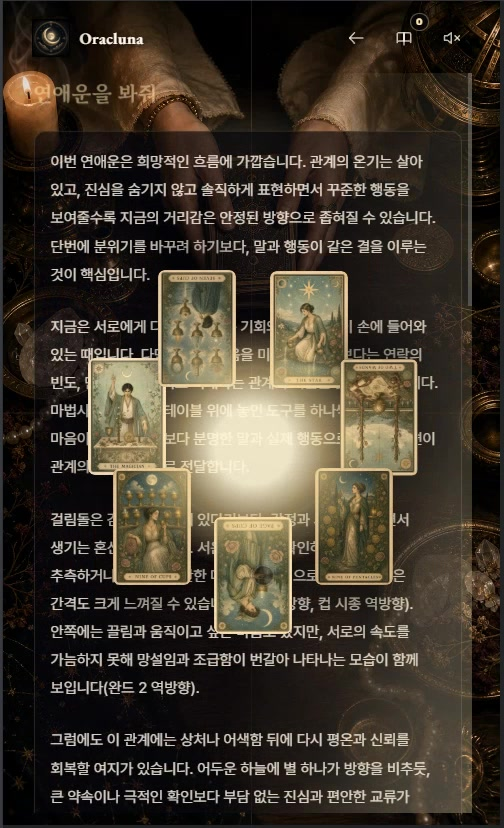
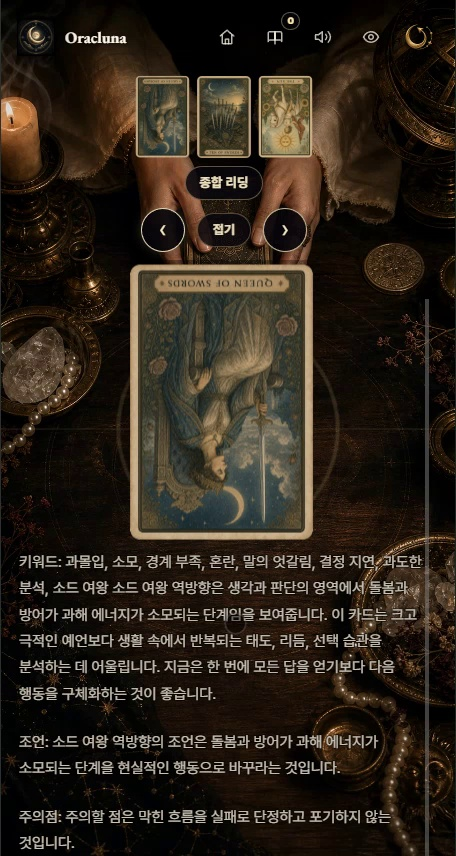
feat(oracluna): 최신 녹화 화면으로 갱신
8월 11일 녹화본에서 고민 선택, 카드 컷, 78장 카드 휠, 3장 공개, 카드별 해석, 저장·공유 프레임을 선별해 반영합니다. 한글·영문 케이스와 허브, 인쇄 포트폴리오, 이력서 설명을 현재 제품 흐름에 맞춥니다.

diff --git a/en/ai-systems/oracluna-tarot/index.html b/en/ai-systems/oracluna-tarot/index.html
@@ -8,13 +8,13 @@
 <meta property="og:title" content="Oracluna Tarot · Mobile RAG Product"/>
 <meta property="og:description" content="A mobile tarot product with direct 78-card selection, readings based on the question and card data, saving, and sharing."/>
 <meta property="og:type" content="article"/>
-<meta property="og:image" content="https://darkhtk.github.io/portfolio/assets/images/oracluna-seven-card-reveal.jpg"/>
+<meta property="og:image" content="https://darkhtk.github.io/portfolio/assets/images/oracluna-three-card-reveal.jpg"/>
 <meta property="og:url" content="https://darkhtk.github.io/portfolio/en/ai-systems/oracluna-tarot/"/>
 <meta property="og:locale" content="en_US"/>
 <meta name="twitter:card" content="summary_large_image"/>
 <meta name="twitter:title" content="Oracluna Tarot · Mobile RAG Product"/>
 <meta name="twitter:description" content="From question entry and direct card selection to a reading based on card data, saving, and sharing."/>
-<meta name="twitter:image" content="https://darkhtk.github.io/portfolio/assets/images/oracluna-seven-card-reveal.jpg"/>
+<meta name="twitter:image" content="https://darkhtk.github.io/portfolio/assets/images/oracluna-three-card-reveal.jpg"/>
 <link rel="canonical" href="https://darkhtk.github.io/portfolio/en/ai-systems/oracluna-tarot/"/>
 <link rel="alternate" hreflang="ko" href="https://darkhtk.github.io/portfolio/ai-systems/oracluna-tarot/"/>
 <link rel="alternate" hreflang="en" href="https://darkhtk.github.io/portfolio/en/ai-systems/oracluna-tarot/"/>
@@ -76,12 +76,12 @@
         <div class="lg:col-span-7 flex flex-col gap-7">
           <div class="kicker kicker-amber border border-accent-amber/30 bg-accent-amber/5 px-3 py-1.5 w-fit">// mobile tarot web app · rag · live</div>
           <h1 class="display-hero text-text-primary">Oracluna Tarot.</h1>
-          <p class="font-mono text-[12px] uppercase tracking-widest text-text-secondary">question → cut → 78 cards → save / share</p>
-          <p class="max-w-2xl border-l-2 border-accent-cyan/40 pl-5 text-[15px] leading-[1.85] text-text-secondary sm:text-base">Users set a question, shuffle and cut the deck, then choose directly from all 78 cards. The product combines each card's spread position, orientation, and retrieved tarot knowledge to answer that question, then carries the reading through saving and sharing.</p>
+          <p class="font-mono text-[12px] uppercase tracking-widest text-text-secondary">concern → cut → 78-card wheel → save / share</p>
+          <p class="max-w-2xl border-l-2 border-accent-cyan/40 pl-5 text-[15px] leading-[1.85] text-text-secondary sm:text-base">Users choose the kind of concern they are bringing, shuffle and cut the deck, then pick directly from a 78-card wheel. The product combines each card's spread position, orientation, and retrieved tarot knowledge to answer the question, then carries the reading through saving and sharing.</p>
           <div class="flex flex-wrap items-center gap-3"><a href="https://oracluna.com/" target="_blank" rel="noopener noreferrer" class="btn-cyan normal-case tracking-normal">oracluna.com <span aria-hidden="true">&nearr;</span></a><a href="#demo-video" class="btn-ghost">Watch video <span aria-hidden="true">&darr;</span></a><a href="#experience" class="btn-ghost">Product flow <span aria-hidden="true">&darr;</span></a></div>
           <div class="flex flex-wrap gap-2"><span class="chip chip-cyan">Mobile-first</span><span class="chip">Vanilla JavaScript</span><span class="chip">Qdrant RAG</span><span class="chip">Ollama / OpenAI</span><span class="chip">Docker · NAS</span></div>
         </div>
-        <div class="min-w-0 lg:col-span-5"><div class="term-window ticks mx-auto max-w-[360px]"><span class="tr"></span><span class="bl"></span><div class="card-bar"><span>READING_07</span><span class="text-success-green">LIVE</span></div><div class="media-frame aspect-[504/828] border-t border-hairline"><img src="../../../assets/images/oracluna-seven-card-reveal.jpg" alt="Seven-card reveal in Oracluna Tarot" loading="eager"/></div></div></div>
+        <div class="min-w-0 lg:col-span-5"><div class="term-window ticks mx-auto max-w-[360px]"><span class="tr"></span><span class="bl"></span><div class="card-bar"><span>READING_03</span><span class="text-success-green">LIVE</span></div><div class="media-frame aspect-[456/856] border-t border-hairline"><img src="../../../assets/images/oracluna-three-card-reveal.jpg" alt="Three-card reveal in Oracluna Tarot" loading="eager"/></div></div></div>
       </div>
     </section>
 
@@ -109,25 +109,25 @@
     <section id="experience" class="relative mx-auto max-w-7xl px-4 py-20 sm:px-6 lg:px-8 lg:py-24">
       <div class="chapter-rule mb-14"><span class="tag text-accent-cyan border-accent-cyan/40 bg-accent-cyan/5">[ 01 · EXPERIENCE ]</span><span class="line"></span><span class="tail">one action at a time</span></div>
       <div class="grid gap-10 lg:grid-cols-12 lg:items-center">
-        <div class="lg:col-span-7"><div class="kicker kicker-cyan">// opening screen</div><h2 class="display-section mt-4 text-text-primary">Question entry, card selection, and results use separate screens.</h2><p class="mt-5 max-w-2xl text-[15px] leading-8 text-text-secondary">The question screen shows the question and spread. The card screen shows the deck. Interpretation, saving, and sharing appear after the reveal.</p>
+        <div class="lg:col-span-7"><div class="kicker kicker-cyan">// opening screen</div><h2 class="display-section mt-4 text-text-primary">The concern determines the next question and card count.</h2><p class="mt-5 max-w-2xl text-[15px] leading-8 text-text-secondary">Today's and this month's readings start immediately. Other and deeper concerns collect a short question before moving into a one-, three-, or seven-card spread. Each screen keeps only the current decision visible.</p>
           <div class="mt-8 grid gap-px border border-hairline bg-hairline sm:grid-cols-3 font-mono text-[11px] uppercase tracking-widest"><div class="bg-bg-primary p-4"><div class="text-text-muted">spread</div><div class="mt-1 text-accent-cyan">1 · 3 · 7 cards</div></div><div class="bg-bg-primary p-4"><div class="text-text-muted">target viewport</div><div class="mt-1 text-accent-cyan">390 × 844</div></div><div class="bg-bg-primary p-4"><div class="text-text-muted">horizontal overflow</div><div class="mt-1 text-success-green">0</div></div></div>
         </div>
-        <figure class="lg:col-span-5 mx-auto w-full max-w-[330px]"><div class="term-window ticks"><span class="tr"></span><span class="bl"></span><div class="card-bar"><span>STEP_01</span><span class="text-text-muted">QUESTION</span></div><div class="media-frame aspect-[504/828]"><img src="../../../assets/images/oracluna-question.jpg" alt="Question and spread selection screen"/></div></div><figcaption class="mt-3 text-sm leading-6 text-text-secondary">The starting point for the question and the one-, three-, or seven-card spread.</figcaption></figure>
+        <figure class="lg:col-span-5 mx-auto w-full max-w-[330px]"><div class="term-window ticks"><span class="tr"></span><span class="bl"></span><div class="card-bar"><span>STEP_01</span><span class="text-text-muted">CONCERN</span></div><div class="media-frame aspect-[456/856]"><img src="../../../assets/images/oracluna-question.jpg" alt="Oracluna screen for choosing today's, monthly, other, or deeper concerns"/></div></div><figcaption class="mt-3 text-sm leading-6 text-text-secondary">Choosing today's, monthly, other, or deeper concerns routes the user into the appropriate spread.</figcaption></figure>
       </div>
     </section>
 
     <section class="relative bg-grid-dots"><div class="absolute inset-0 bg-grid-lines pointer-events-none opacity-50"></div><div class="relative mx-auto max-w-7xl px-4 py-20 sm:px-6 lg:px-8 lg:py-24">
       <div class="chapter-rule mb-14"><span class="tag text-accent-amber border-accent-amber/40 bg-accent-amber/5">[ 02 · RITUAL ]</span><span class="line"></span><span class="tail">shuffle / cut / choose</span></div>
       <div class="grid gap-10 lg:grid-cols-2">
-        <article class="grid gap-6 sm:grid-cols-[minmax(0,260px)_1fr] sm:items-center"><figure class="mx-auto w-full max-w-[260px]"><div class="term-window ticks"><span class="tr"></span><span class="bl"></span><div class="card-bar"><span>STEP_03</span><span class="text-text-muted">CUT</span></div><div class="media-frame aspect-[504/828]"><img src="../../../assets/images/oracluna-cut.jpg" alt="Three-way tarot deck cut"/></div></div></figure><div><div class="kicker kicker-amber">// three-way cut</div><h2 class="mt-3 font-display text-2xl font-bold text-text-primary">After shuffling, the user chooses one of three piles.</h2><p class="mt-4 text-sm leading-7 text-text-secondary">After shuffling, users choose one of three piles. It keeps the input short while preserving the physical rhythm of handling a deck.</p></div></article>
-        <article class="grid gap-6 sm:grid-cols-[minmax(0,260px)_1fr] sm:items-center"><figure class="mx-auto w-full max-w-[260px]"><div class="term-window ticks"><span class="tr"></span><span class="bl"></span><div class="card-bar"><span>STEP_04</span><span class="text-text-muted">78 CARDS</span></div><div class="media-frame aspect-[504/828]"><img src="../../../assets/images/oracluna-deck-matrix.jpg" alt="Matrix showing all 78 tarot cards"/></div></div></figure><div><div class="kicker kicker-cyan">// deck matrix</div><h2 class="mt-3 font-display text-2xl font-bold text-text-primary">All 78 cards are directly selectable.</h2><p class="mt-4 text-sm leading-7 text-text-secondary">The first radial deck made edge cards hard to reach and introduced unstable drag math. Repeated mobile QA led to a full-screen matrix with predictable card positions.</p></div></article>
+        <article class="grid gap-6 sm:grid-cols-[minmax(0,260px)_1fr] sm:items-center"><figure class="mx-auto w-full max-w-[260px]"><div class="term-window ticks"><span class="tr"></span><span class="bl"></span><div class="card-bar"><span>STEP_03</span><span class="text-text-muted">CUT</span></div><div class="media-frame aspect-[456/856]"><img src="../../../assets/images/oracluna-cut.jpg" alt="Three cut piles being recombined from the selected pile"/></div></div></figure><div><div class="kicker kicker-amber">// three-way cut</div><h2 class="mt-3 font-display text-2xl font-bold text-text-primary">The three piles restack from the chosen pile.</h2><p class="mt-4 text-sm leading-7 text-text-secondary">After one pile is chosen, the visible piles recombine in that order. Reusing the cards already on screen keeps the transition from shuffle to selection continuous.</p></div></article>
+        <article class="grid gap-6 sm:grid-cols-[minmax(0,260px)_1fr] sm:items-center"><figure class="mx-auto w-full max-w-[260px]"><div class="term-window ticks"><span class="tr"></span><span class="bl"></span><div class="card-bar"><span>STEP_04</span><span class="text-text-muted">CARD WHEEL</span></div><div class="media-frame aspect-[456/856]"><img src="../../../assets/images/oracluna-card-wheel.jpg" alt="Oracluna's 78-card wheel arranged in a fan"/></div></div></figure><div><div class="kicker kicker-cyan">// draggable card wheel</div><h2 class="mt-3 font-display text-2xl font-bold text-text-primary">All 78 cards are picked from a fan-shaped wheel.</h2><p class="mt-4 text-sm leading-7 text-text-secondary">Users turn the wheel with a finger and tap the card itself; the chosen card lifts out into a selection slot. The wheel keeps the same gesture across one-, three-, and seven-card readings.</p></div></article>
       </div>
     </div></section>
 
     <section class="relative mx-auto max-w-7xl px-4 py-20 sm:px-6 lg:px-8 lg:py-24">
       <div class="chapter-rule mb-14"><span class="tag text-accent-cyan border-accent-cyan/40 bg-accent-cyan/5">[ 03 · PROBLEMS ]</span><span class="line"></span><span class="tail">problems i solved</span></div>
       <div class="grid gap-5 md:grid-cols-3">
-        <article class="card ticks p-6"><span class="tr"></span><span class="bl"></span><div class="font-mono text-2xl text-accent-cyan">01</div><h2 class="mt-4 font-display text-xl font-bold text-text-primary">Separate animation from state</h2><p class="mt-4 text-sm leading-7 text-text-secondary">Shuffle, cut, selection, and reveal are explicit stages. Source cards and moving instances have separate lifecycles, and a watchdog clears residual layers when motion fails to complete.</p></article>
+        <article class="card ticks p-6"><span class="tr"></span><span class="bl"></span><div class="font-mono text-2xl text-accent-cyan">01</div><h2 class="mt-4 font-display text-xl font-bold text-text-primary">Separate animation from state</h2><p class="mt-4 text-sm leading-7 text-text-secondary">Shuffle, cut, wheel selection, and reveal are explicit stages. Source cards and moving instances have separate lifecycles, and a watchdog clears residual layers when motion fails to complete.</p></article>
         <article class="card ticks p-6"><span class="tr"></span><span class="bl"></span><div class="font-mono text-2xl text-accent-cyan">02</div><h2 class="mt-4 font-display text-xl font-bold text-text-primary">Move sharing work earlier</h2><p class="mt-4 text-sm leading-7 text-text-secondary">Generating a poster only after the share tap can outlive the mobile gesture window. A size-limited Blob is prepared as soon as the result is ready, so sharing starts immediately.</p></article>
         <article class="card ticks p-6"><span class="tr"></span><span class="bl"></span><div class="font-mono text-2xl text-accent-cyan">03</div><h2 class="mt-4 font-display text-xl font-bold text-text-primary">Handle iOS audio policy</h2><p class="mt-4 text-sm leading-7 text-text-secondary">The first user gesture unlocks the AudioContext, while per-action playback and duplicate suppression are managed independently. Shuffle and reveal feedback remains reliable on iOS.</p></article>
       </div>
@@ -137,13 +137,13 @@
       <div class="lg:col-span-7"><div class="chapter-rule mb-10"><span class="tag text-accent-amber border-accent-amber/40 bg-accent-amber/5">[ 04 · RAG ]</span><span class="line"></span></div><h2 class="display-section text-text-primary">The model receives the question and card data.</h2><p class="mt-5 max-w-2xl text-[15px] leading-8 text-text-secondary">The model receives the question, spread position, card orientation, and retrieved tarot notes. Duplicate search results are merged before generation, and the response rules focus on current choices and possible next actions.</p>
         <div class="mt-8 grid gap-3"><div class="lane"><span class="lane-num">01</span><div class="kicker kicker-cyan">context</div><div class="mt-2 font-display font-bold text-text-primary">Question · topic · spread position · orientation</div></div><div class="lane-arrow">↓</div><div class="lane"><span class="lane-num">02</span><div class="kicker kicker-cyan">retrieval</div><div class="mt-2 font-display font-bold text-text-primary">Qdrant knowledge search and evidence merge</div></div><div class="lane-arrow">↓</div><div class="lane"><span class="lane-num">03</span><div class="kicker kicker-cyan">provider</div><div class="mt-2 font-display font-bold text-text-primary">Local Ollama development · OpenAI API deployment</div></div></div>
       </div>
-      <figure class="lg:col-span-5 mx-auto w-full max-w-[350px]"><div class="term-window ticks"><span class="tr"></span><span class="bl"></span><div class="card-bar"><span>RESULT</span><span class="text-text-muted">QUESTION + CARD DATA</span></div><div class="media-frame aspect-[504/828]"><img src="../../../assets/images/oracluna-rag-reading.jpg" alt="Oracluna reading based on the question and selected card data"/></div></div><figcaption class="mt-3 text-sm leading-6 text-text-secondary">The reading answers the user's question instead of listing generic card meanings.</figcaption></figure>
+      <figure class="lg:col-span-5 mx-auto w-full max-w-[350px]"><div class="term-window ticks"><span class="tr"></span><span class="bl"></span><div class="card-bar"><span>RESULT</span><span class="text-text-muted">QUESTION + CARD DATA</span></div><div class="media-frame aspect-[456/856]"><img src="../../../assets/images/oracluna-rag-reading.jpg" alt="Card-by-card Oracluna reading based on the question and selected card data"/></div></div><figcaption class="mt-3 text-sm leading-6 text-text-secondary">The reading answers the user's question instead of listing generic card meanings.</figcaption></figure>
     </div></section>
 
     <section class="relative mx-auto max-w-7xl px-4 py-20 sm:px-6 lg:px-8 lg:py-24">
       <div class="chapter-rule mb-14"><span class="tag text-accent-cyan border-accent-cyan/40 bg-accent-cyan/5">[ 05 · DELIVERY ]</span><span class="line"></span><span class="tail">save / restore / share / verify</span></div>
       <div class="grid gap-12 lg:grid-cols-12 lg:items-center">
-        <figure class="lg:col-span-5 mx-auto w-full max-w-[350px]"><div class="term-window ticks"><span class="tr"></span><span class="bl"></span><div class="card-bar"><span>COMPLETE</span><span class="text-success-green">SAVE · SHARE</span></div><div class="media-frame aspect-[504/828]"><img src="../../../assets/images/oracluna-save-share.jpg" alt="Saving and sharing an Oracluna reading"/></div></div></figure>
+        <figure class="lg:col-span-5 mx-auto w-full max-w-[350px]"><div class="term-window ticks"><span class="tr"></span><span class="bl"></span><div class="card-bar"><span>COMPLETE</span><span class="text-success-green">SAVE · SHARE</span></div><div class="media-frame aspect-[456/856]"><img src="../../../assets/images/oracluna-save-share.jpg" alt="Oracluna result screen with save, share, and restart actions"/></div></div></figure>
         <div class="lg:col-span-7"><div class="kicker kicker-cyan">// complete reading cycle</div><h2 class="display-section mt-4 text-text-primary">Users can save, reopen, delete, and share a completed reading.</h2><p class="mt-5 text-[15px] leading-8 text-text-secondary">The app stores readings in the browser, reopens or deletes them, generates a Canvas poster, and shares it through Web Share. The Node server handles validation, rate limiting, static caching, and a health endpoint behind Docker and a NAS reverse proxy.</p>
           <div class="mt-8 grid grid-cols-2 gap-px border border-hairline bg-hairline sm:grid-cols-4"><div class="bg-bg-primary p-4"><div class="font-mono text-2xl text-accent-cyan">78</div><div class="mt-2 text-xs text-text-muted">card catalog</div></div><div class="bg-bg-primary p-4"><div class="font-mono text-2xl text-accent-cyan">156</div><div class="mt-2 text-xs text-text-muted">upright/reversed rows</div></div><div class="bg-bg-primary p-4"><div class="font-mono text-2xl text-accent-cyan">170</div><div class="mt-2 text-xs text-text-muted">retrieval records</div></div><div class="bg-bg-primary p-4"><div class="font-mono text-2xl text-success-green">0</div><div class="mt-2 text-xs text-text-muted">missing card assets</div></div></div>
           <p class="mt-5 font-mono text-[11px] uppercase tracking-widest text-text-muted">78 png · 78 svg · 78 metadata · data validation · api/ui smoke test</p>

diff --git a/ai-systems/oracluna-tarot/index.html b/ai-systems/oracluna-tarot/index.html
@@ -8,13 +8,13 @@
 <meta property="og:title" content="Oracluna Tarot · 모바일 RAG 제품"/>
 <meta property="og:description" content="78장 카드 선택 UX와 질문 중심 RAG 해석, 저장·공유까지 직접 설계하고 구현한 모바일 타로 리딩 웹앱."/>
 <meta property="og:type" content="article"/>
-<meta property="og:image" content="https://darkhtk.github.io/portfolio/assets/images/oracluna-seven-card-reveal.jpg"/>
+<meta property="og:image" content="https://darkhtk.github.io/portfolio/assets/images/oracluna-three-card-reveal.jpg"/>
 <meta property="og:url" content="https://darkhtk.github.io/portfolio/ai-systems/oracluna-tarot/"/>
 <meta property="og:locale" content="ko_KR"/>
 <meta name="twitter:card" content="summary_large_image"/>
 <meta name="twitter:title" content="Oracluna Tarot · 모바일 RAG 제품"/>
 <meta name="twitter:description" content="질문 입력, 카드 선택, 질문과 카드 정보를 반영한 해석, 저장과 공유를 제공하는 모바일 타로 웹앱."/>
-<meta name="twitter:image" content="https://darkhtk.github.io/portfolio/assets/images/oracluna-seven-card-reveal.jpg"/>
+<meta name="twitter:image" content="https://darkhtk.github.io/portfolio/assets/images/oracluna-three-card-reveal.jpg"/>
 <link rel="canonical" href="https://darkhtk.github.io/portfolio/ai-systems/oracluna-tarot/"/>
 <link rel="alternate" hreflang="ko" href="https://darkhtk.github.io/portfolio/ai-systems/oracluna-tarot/"/>
 <link rel="alternate" hreflang="en" href="https://darkhtk.github.io/portfolio/en/ai-systems/oracluna-tarot/"/>
@@ -86,9 +86,9 @@
         <div class="lg:col-span-7 flex flex-col gap-7">
           <div class="kicker kicker-amber border border-accent-amber/30 bg-accent-amber/5 px-3 py-1.5 w-fit">// mobile tarot web app · rag · live</div>
           <h1 class="display-hero text-text-primary kr-balance">Oracluna Tarot.</h1>
-          <p class="font-mono text-[12px] uppercase tracking-widest text-text-secondary">question → cut → 78 cards → save / share</p>
+          <p class="font-mono text-[12px] uppercase tracking-widest text-text-secondary">concern → cut → 78-card wheel → save / share</p>
           <p class="max-w-2xl border-l-2 border-accent-cyan/40 pl-5 text-[15px] leading-[1.85] text-text-secondary sm:text-base kr-balance">
-            질문을 정하고, 카드를 섞고 자른 뒤, 78장 중 원하는 카드를 직접 고릅니다. 선택한 카드의 배열 위치와 정·역방향, 검색된 타로 지식을 함께 사용해 질문에 답하고 저장과 공유까지 이어지는 모바일 리딩 웹앱입니다.
+            고민의 종류를 고르고, 카드를 섞고 자른 뒤, 78장 카드 휠에서 원하는 카드를 직접 고릅니다. 선택한 카드의 배열 위치와 정·역방향, 검색된 타로 지식을 함께 사용해 질문에 답하고 저장과 공유까지 이어지는 모바일 리딩 웹앱입니다.
           </p>
           <div class="flex flex-wrap items-center gap-3">
             <a href="https://oracluna.com/" target="_blank" rel="noopener noreferrer" class="btn-cyan normal-case tracking-normal">oracluna.com <span aria-hidden="true">&nearr;</span></a>
@@ -101,8 +101,8 @@
         </div>
         <div class="min-w-0 lg:col-span-5">
           <div class="term-window ticks mx-auto max-w-[360px]"><span class="tr"></span><span class="bl"></span>
-            <div class="card-bar"><span>READING_07</span><span class="text-success-green">LIVE</span></div>
-            <div class="media-frame aspect-[504/828] border-t border-hairline"><img src="../../assets/images/oracluna-seven-card-reveal.jpg" alt="Oracluna Tarot 7장 카드 공개 화면" loading="eager"/></div>
+            <div class="card-bar"><span>READING_03</span><span class="text-success-green">LIVE</span></div>
+            <div class="media-frame aspect-[456/856] border-t border-hairline"><img src="../../assets/images/oracluna-three-card-reveal.jpg" alt="Oracluna Tarot 3장 카드 공개 화면" loading="eager"/></div>
           </div>
         </div>
       </div>
@@ -134,8 +134,8 @@
       <div class="grid gap-10 lg:grid-cols-12 lg:items-center">
         <div class="lg:col-span-7">
           <div class="kicker kicker-cyan">// 시작 화면</div>
-          <h2 class="display-section mt-4 text-text-primary kr-balance">질문 입력, 카드 선택, 결과 확인을 다른 화면으로 나눴습니다.</h2>
-          <p class="mt-5 max-w-2xl text-[15px] leading-8 text-text-secondary kr-balance">질문 화면에는 질문과 배열만, 카드 화면에는 선택할 카드만 표시했습니다. 해석, 저장, 공유 기능은 카드 공개 뒤에 보여 줍니다.</p>
+          <h2 class="display-section mt-4 text-text-primary kr-balance">고민을 먼저 고르면 필요한 질문과 카드 수가 이어집니다.</h2>
+          <p class="mt-5 max-w-2xl text-[15px] leading-8 text-text-secondary kr-balance">오늘·이달 운세는 바로 리딩을 시작하고, 다른 고민과 깊은 고민은 짧은 질문을 받은 뒤 1·3·7장 배열로 이어집니다. 한 화면에는 지금 필요한 선택만 남겼습니다.</p>
           <div class="mt-8 grid gap-px border border-hairline bg-hairline sm:grid-cols-3 font-mono text-[11px] uppercase tracking-widest">
             <div class="bg-bg-primary p-4"><div class="text-text-muted">spread</div><div class="mt-1 text-accent-cyan">1 · 3 · 7 cards</div></div>
             <div class="bg-bg-primary p-4"><div class="text-text-muted">target viewport</div><div class="mt-1 text-accent-cyan">390 × 844</div></div>
@@ -143,8 +143,8 @@
           </div>
         </div>
         <figure class="lg:col-span-5 mx-auto w-full max-w-[330px]">
-          <div class="term-window ticks"><span class="tr"></span><span class="bl"></span><div class="card-bar"><span>STEP_01</span><span class="text-text-muted">QUESTION</span></div><div class="media-frame aspect-[504/828]"><img src="../../assets/images/oracluna-question.jpg" alt="질문과 배열을 선택하는 Oracluna 시작 화면"/></div></div>
-          <figcaption class="mt-3 text-sm leading-6 text-text-secondary kr-balance">질문과 1·3·7장 배열을 정하는 시작점. 카드보다 먼저 필요한 선택만 남겼습니다.</figcaption>
+          <div class="term-window ticks"><span class="tr"></span><span class="bl"></span><div class="card-bar"><span>STEP_01</span><span class="text-text-muted">CONCERN</span></div><div class="media-frame aspect-[456/856]"><img src="../../assets/images/oracluna-question.jpg" alt="오늘·이달·다른 고민·깊은 고민을 고르는 Oracluna 시작 화면"/></div></div>
+          <figcaption class="mt-3 text-sm leading-6 text-text-secondary kr-balance">오늘의 운세, 이달의 운세, 다른 고민, 깊은 고민 중 하나를 고르면 알맞은 배열로 이어집니다.</figcaption>
         </figure>
       </div>
     </section>
@@ -155,12 +155,12 @@
         <div class="chapter-rule mb-14"><span class="tag text-accent-amber border-accent-amber/40 bg-accent-amber/5">[ 02 · RITUAL ]</span><span class="line"></span><span class="tail">shuffle / cut / choose</span></div>
         <div class="grid gap-10 lg:grid-cols-2">
           <article class="grid gap-6 sm:grid-cols-[minmax(0,260px)_1fr] sm:items-center">
-            <figure class="mx-auto w-full max-w-[260px]"><div class="term-window ticks"><span class="tr"></span><span class="bl"></span><div class="card-bar"><span>STEP_03</span><span class="text-text-muted">CUT</span></div><div class="media-frame aspect-[504/828]"><img src="../../assets/images/oracluna-cut.jpg" alt="세 묶음 중 하나를 고르는 카드 컷 화면"/></div></div></figure>
-            <div><div class="kicker kicker-amber">// three-way cut</div><h2 class="mt-3 font-display text-2xl font-bold text-text-primary kr-balance">셔플이 끝나면 세 묶음 중 하나를 고릅니다.</h2><p class="mt-4 text-sm leading-7 text-text-secondary kr-balance">셔플 뒤 세 묶음 중 하나를 직접 고르게 했습니다. 입력 과정은 짧게 유지하면서도 실제 카드를 다루는 리듬은 남겼습니다.</p></div>
+            <figure class="mx-auto w-full max-w-[260px]"><div class="term-window ticks"><span class="tr"></span><span class="bl"></span><div class="card-bar"><span>STEP_03</span><span class="text-text-muted">CUT</span></div><div class="media-frame aspect-[456/856]"><img src="../../assets/images/oracluna-cut.jpg" alt="선택한 묶음부터 다시 쌓는 3분할 카드 컷 화면"/></div></div></figure>
+            <div><div class="kicker kicker-amber">// three-way cut</div><h2 class="mt-3 font-display text-2xl font-bold text-text-primary kr-balance">고른 묶음부터 세 묶음을 다시 쌓습니다.</h2><p class="mt-4 text-sm leading-7 text-text-secondary kr-balance">세 묶음 중 하나를 고르면 선택한 묶음부터 차례로 재결합합니다. 화면에 놓인 카드를 그대로 이어 움직여 셔플과 선택 단계가 갑자기 끊기지 않게 했습니다.</p></div>
           </article>
           <article class="grid gap-6 sm:grid-cols-[minmax(0,260px)_1fr] sm:items-center">
-            <figure class="mx-auto w-full max-w-[260px]"><div class="term-window ticks"><span class="tr"></span><span class="bl"></span><div class="card-bar"><span>STEP_04</span><span class="text-text-muted">78 CARDS</span></div><div class="media-frame aspect-[504/828]"><img src="../../assets/images/oracluna-deck-matrix.jpg" alt="78장 전체를 보여주는 카드 선택 매트릭스"/></div></div></figure>
-            <div><div class="kicker kicker-cyan">// deck matrix</div><h2 class="mt-3 font-display text-2xl font-bold text-text-primary kr-balance">78장을 한 화면에서 직접 고릅니다.</h2><p class="mt-4 text-sm leading-7 text-text-secondary kr-balance">초기 원호형 덱은 끝 카드 접근과 좌표 안정성이 떨어졌습니다. 반복 QA 뒤 전체 매트릭스로 바꿔 카드 위치를 예측 가능하게 만들었습니다.</p></div>
+            <figure class="mx-auto w-full max-w-[260px]"><div class="term-window ticks"><span class="tr"></span><span class="bl"></span><div class="card-bar"><span>STEP_04</span><span class="text-text-muted">CARD WHEEL</span></div><div class="media-frame aspect-[456/856]"><img src="../../assets/images/oracluna-card-wheel.jpg" alt="78장을 부채꼴로 펼친 Oracluna 카드 휠"/></div></div></figure>
+            <div><div class="kicker kicker-cyan">// draggable card wheel</div><h2 class="mt-3 font-display text-2xl font-bold text-text-primary kr-balance">78장을 부채꼴 휠에서 직접 고릅니다.</h2><p class="mt-4 text-sm leading-7 text-text-secondary kr-balance">손가락으로 휠을 돌리고 카드 자체를 누르면 앞으로 빠져나와 선택 칸에 놓입니다. 카드 수가 달라져도 같은 조작을 유지하도록 휠의 회전 범위와 선택 위치를 함께 맞췄습니다.</p></div>
           </article>
         </div>
       </div>
@@ -169,7 +169,7 @@
     <section class="relative mx-auto max-w-7xl px-4 py-20 sm:px-6 lg:px-8 lg:py-24">
       <div class="chapter-rule mb-14"><span class="tag text-accent-cyan border-accent-cyan/40 bg-accent-cyan/5">[ 03 · PROBLEMS ]</span><span class="line"></span><span class="tail">직접 풀어낸 문제들</span></div>
       <div class="grid gap-5 md:grid-cols-3">
-        <article class="card ticks p-6"><span class="tr"></span><span class="bl"></span><div class="font-mono text-2xl text-accent-cyan">01</div><h2 class="mt-4 font-display text-xl font-bold text-text-primary kr-balance">애니메이션과 상태를 분리</h2><p class="mt-4 text-sm leading-7 text-text-secondary kr-balance">셔플·컷·선택·공개를 명시적인 단계로 관리하고, 이동 중인 카드와 원본 카드의 생명주기를 분리했습니다. 모션이 끝나지 않으면 watchdog이 잔류 레이어를 정리합니다.</p></article>
+        <article class="card ticks p-6"><span class="tr"></span><span class="bl"></span><div class="font-mono text-2xl text-accent-cyan">01</div><h2 class="mt-4 font-display text-xl font-bold text-text-primary kr-balance">애니메이션과 상태를 분리</h2><p class="mt-4 text-sm leading-7 text-text-secondary kr-balance">셔플·컷·휠 선택·공개를 명시적인 단계로 관리하고, 이동 중인 카드와 원본 카드의 생명주기를 분리했습니다. 모션이 끝나지 않으면 watchdog이 잔류 레이어를 정리합니다.</p></article>
         <article class="card ticks p-6"><span class="tr"></span><span class="bl"></span><div class="font-mono text-2xl text-accent-cyan">02</div><h2 class="mt-4 font-display text-xl font-bold text-text-primary kr-balance">공유 지연을 앞에서 처리</h2><p class="mt-4 text-sm leading-7 text-text-secondary kr-balance">공유 버튼을 누른 뒤 포스터를 만들면 모바일의 사용자 제스처 유효 시간이 끝날 수 있었습니다. 결과가 완성될 때 제한된 크기의 Blob을 미리 만들어 즉시 전달합니다.</p></article>
         <article class="card ticks p-6"><span class="tr"></span><span class="bl"></span><div class="font-mono text-2xl text-accent-cyan">03</div><h2 class="mt-4 font-display text-xl font-bold text-text-primary kr-balance">iOS 오디오 정책 대응</h2><p class="mt-4 text-sm leading-7 text-text-secondary kr-balance">첫 사용자 제스처에서 AudioContext를 활성화하고 동작별 재생과 중복 방지 시간을 나눴습니다. 셔플과 카드 공개 피드백이 iOS에서도 끊기지 않게 했습니다.</p></article>
       </div>
@@ -190,7 +190,7 @@
           </div>
         </div>
         <figure class="lg:col-span-5 mx-auto w-full max-w-[350px]">
-          <div class="term-window ticks"><span class="tr"></span><span class="bl"></span><div class="card-bar"><span>RESULT</span><span class="text-text-muted">QUESTION + CARD DATA</span></div><div class="media-frame aspect-[504/828]"><img src="../../assets/images/oracluna-rag-reading.jpg" alt="질문과 카드 근거를 반영한 Oracluna 해석 결과"/></div></div>
+          <div class="term-window ticks"><span class="tr"></span><span class="bl"></span><div class="card-bar"><span>RESULT</span><span class="text-text-muted">QUESTION + CARD DATA</span></div><div class="media-frame aspect-[456/856]"><img src="../../assets/images/oracluna-rag-reading.jpg" alt="질문과 카드 근거를 반영한 Oracluna 카드별 해석 화면"/></div></div>
           <figcaption class="mt-3 text-sm leading-6 text-text-secondary kr-balance">카드 일반론을 나열하지 않고 사용자의 질문에 답하도록 구성한 결과 화면입니다.</figcaption>
         </figure>
       </div>
@@ -199,7 +199,7 @@
     <section class="relative mx-auto max-w-7xl px-4 py-20 sm:px-6 lg:px-8 lg:py-24">
       <div class="chapter-rule mb-14"><span class="tag text-accent-cyan border-accent-cyan/40 bg-accent-cyan/5">[ 05 · DELIVERY ]</span><span class="line"></span><span class="tail">save / restore / share / verify</span></div>
       <div class="grid gap-12 lg:grid-cols-12 lg:items-center">
-        <figure class="lg:col-span-5 mx-auto w-full max-w-[350px]"><div class="term-window ticks"><span class="tr"></span><span class="bl"></span><div class="card-bar"><span>COMPLETE</span><span class="text-success-green">SAVE · SHARE</span></div><div class="media-frame aspect-[504/828]"><img src="../../assets/images/oracluna-save-share.jpg" alt="해석을 저장하고 공유하는 Oracluna 결과 화면"/></div></div></figure>
+        <figure class="lg:col-span-5 mx-auto w-full max-w-[350px]"><div class="term-window ticks"><span class="tr"></span><span class="bl"></span><div class="card-bar"><span>COMPLETE</span><span class="text-success-green">SAVE · SHARE</span></div><div class="media-frame aspect-[456/856]"><img src="../../assets/images/oracluna-save-share.jpg" alt="저장하기·공유하기·처음으로 동작이 보이는 Oracluna 결과 화면"/></div></div></figure>
         <div class="lg:col-span-7">
           <div class="kicker kicker-cyan">// complete reading cycle</div>
           <h2 class="display-section mt-4 text-text-primary kr-balance">결과를 저장하고 다시 열거나 공유할 수 있습니다.</h2>

diff --git a/print/resume/index.html b/print/resume/index.html
@@ -437,21 +437,21 @@
       {
         key: "oracluna",
         title: "Oracluna Tarot",
-        kicker: "모바일 퍼스트 웹앱 / 78장 선택 UX / Qdrant RAG / Docker",
+        kicker: "모바일 퍼스트 웹앱 / 78장 카드 휠 / Qdrant RAG / Docker",
         url: "https://oracluna.com/",
         urlLabel: "oracluna.com",
-        summary: "질문 입력부터 78장 카드 선택, 해석, 저장, 공유까지 제공하는 모바일 타로 웹앱입니다. 질문, 카드 선택, 결과 화면을 단계별로 나눴습니다.",
+        summary: "고민을 고르고 카드를 섞고 자른 뒤, 78장 카드 휠에서 뽑아 해석을 저장·공유하는 모바일 타로 웹앱입니다. 고민의 종류에 따라 1·3·7장 흐름이 달라집니다.",
         contribution: [
-          "원호형 덱의 끝 카드 접근과 좌표 불안정 문제를 반복 검수한 뒤, 78장 전체를 예측 가능한 위치에서 고르는 모바일 매트릭스로 전환했습니다.",
+          "78장 카드 휠을 손가락으로 돌리고 카드 자체를 눌러 고르는 방식으로 구성했습니다. 선택 카드는 별도 슬롯으로 옮기고, 1·3·7장 배열이 화면 안에 들어오도록 카드 간격과 축척을 함께 계산했습니다.",
           "질문, 배열 위치, 카드, 정·역방향과 검색 지식을 결합하는 Qdrant 기반 RAG 파이프라인을 만들고, 로컬 Ollama와 배포용 OpenAI API를 공급자 어댑터로 분리했습니다.",
           "78 PNG, 78 SVG, 78 metadata, 170개 검색 레코드를 자동 검증하고, iOS Web Audio, 공유 포스터 사전 생성, Docker/NAS 배포까지 마무리했습니다."
         ],
         images: [
-          ["oracluna-question.jpg", "질문과 1·3·7장 배열을 정하는 시작 화면. 현재 단계에 필요한 선택만 남겼습니다."],
-          ["oracluna-cut.jpg", "셔플 뒤 세 묶음 중 하나를 직접 고르는 3분할 컷 화면."],
-          ["oracluna-deck-matrix.jpg", "78장 전체를 한 화면에서 탐색하고 직접 선택하는 모바일 카드 매트릭스."],
-          ["oracluna-seven-card-reveal.jpg", "배열 위치와 정·역방향을 확인하며 일곱 장을 공개한 결과 화면."],
-          ["oracluna-save-share.jpg", "해석 결과를 저장하고 공유하는 화면."]
+          ["oracluna-question.jpg", "오늘·이달·다른 고민·깊은 고민 중 하나를 고르는 시작 화면."],
+          ["oracluna-cut.jpg", "선택한 묶음부터 세 묶음을 다시 쌓는 3분할 컷 화면."],
+          ["oracluna-card-wheel.jpg", "78장을 부채꼴 휠에서 돌려 보고 카드 자체를 눌러 고르는 화면."],
+          ["oracluna-three-card-reveal.jpg", "이달의 운세에서 뽑은 세 장의 정·역방향을 공개한 화면."],
+          ["oracluna-save-share.jpg", "해석을 저장하고 공유하거나 새 리딩으로 돌아가는 결과 화면."]
         ]
       },
       {

diff --git a/print/resume-en/index.html b/print/resume-en/index.html
@@ -437,21 +437,21 @@
       {
         key: "oracluna",
         title: "Oracluna Tarot",
-        kicker: "Mobile-first web app / 78-card UX / Qdrant RAG / Docker",
+        kicker: "Mobile-first web app / 78-card wheel / Qdrant RAG / Docker",
         url: "https://oracluna.com/",
         urlLabel: "oracluna.com",
-        summary: "At oracluna.com, users enter a question, select cards from the full 78-card deck, receive an interpretation, and save or share the result.",
+        summary: "At oracluna.com, users choose a concern, shuffle and cut the deck, pick from a 78-card wheel, receive an interpretation, and save or share the result. The flow uses one, three, or seven cards according to the concern.",
         contribution: [
-          "Replaced an unstable radial deck after repeated mobile QA with a full 78-card matrix that keeps every card reachable at a predictable position.",
+          "Built a draggable 78-card wheel with direct card selection and separate slots for chosen cards. Card spacing and scale are calculated so one-, three-, and seven-card spreads stay inside the mobile viewport.",
           "Built a Qdrant-backed RAG pipeline combining the question, spread position, card, orientation, and retrieved knowledge, with provider adapters for local Ollama development and OpenAI API deployment.",
           "Automated checks for 78 PNGs, 78 SVGs, 78 metadata files, and 170 retrieval records, then completed iOS Web Audio handling, pre-generated share posters, and Docker/NAS deployment."
         ],
         images: [
-          ["oracluna-question.jpg", "Opening screen for the question and one-, three-, or seven-card spread, with only the current decisions visible."],
-          ["oracluna-cut.jpg", "Three-way cut after shuffling, preserving the physical rhythm without slowing the mobile flow."],
-          ["oracluna-deck-matrix.jpg", "Full 78-card mobile matrix for direct, predictable selection."],
-          ["oracluna-seven-card-reveal.jpg", "Seven-card reveal showing spread positions and upright or reversed orientation."],
-          ["oracluna-save-share.jpg", "Completed reading with card evidence, saving, and sharing actions."]
+          ["oracluna-question.jpg", "Opening screen for choosing today's, monthly, other, or deeper concerns."],
+          ["oracluna-cut.jpg", "Three cut piles recombining from the pile selected by the user."],
+          ["oracluna-card-wheel.jpg", "Draggable 78-card wheel with direct selection from the card faces."],
+          ["oracluna-three-card-reveal.jpg", "Three-card monthly reading showing upright and reversed orientation."],
+          ["oracluna-save-share.jpg", "Completed reading with save, share, and restart actions."]
         ]
       },
       {

diff --git a/print/ko-portfolio/index.html b/print/ko-portfolio/index.html
@@ -200,17 +200,17 @@
 
       <article class="project-feature">
         <div class="project-image project-image--contain">
-          <img src="../../assets/images/oracluna-seven-card-reveal.jpg" alt="Oracluna 7장 해석 화면"/>
+          <img src="../../assets/images/oracluna-three-card-reveal.jpg" alt="Oracluna 3장 카드 공개 화면"/>
         </div>
         <div class="project-copy">
           <div class="project-kicker">Mobile RAG Product</div>
           <h3 class="project-title">Oracluna Tarot</h3>
           <p class="project-summary">
-            oracluna.com에서 질문을 입력하고 카드를 섞고 자른 뒤, 78장 중 카드를 골라 해석을 저장하거나 공유할 수 있습니다.
+            oracluna.com에서 고민을 고르고 카드를 섞고 자른 뒤, 78장 카드 휠에서 직접 뽑아 해석을 저장하거나 공유할 수 있습니다.
           </p>
           <ul class="project-list">
-            <li><strong>Problem:</strong> 초기 원호형 덱은 모바일에서 끝 카드에 닿기 어렵고 drag 좌표가 불안정했습니다.</li>
-            <li><strong>Build:</strong> 78장 전체 매트릭스, 배열 위치와 정·역방향 데이터, Qdrant 검색, Ollama/OpenAI 어댑터, 브라우저 저장, Canvas 포스터, Web Share.</li>
+            <li><strong>Problem:</strong> 모바일에서 78장을 훑으면서 선택 카드와 현재 위치를 놓치지 않아야 했습니다.</li>
+            <li><strong>Build:</strong> 드래그 가능한 78장 카드 휠, 선택 슬롯, 배열 위치와 정·역방향 데이터, Qdrant 검색, Ollama/OpenAI 어댑터, 브라우저 저장, Canvas 포스터, Web Share.</li>
             <li><strong>Outcome:</strong> 질문 입력, 카드 선택, 해석, 저장, 삭제, 공유 기능을 oracluna.com에서 공개 운영합니다.</li>
           </ul>
         </div>
@@ -224,7 +224,7 @@
             <p class="snapshot__copy">mood · 관계 상태로 로컬 LLM 행위를 게임 루프 안에서 검사 가능하게.</p>
           </div>
         </article>
-        <article class="snapshot snapshot--contain">
+        <article class="snapshot snapshot--contain snapshot--bottom">
           <img src="../../assets/images/oracluna-save-share.jpg" alt="Oracluna 저장과 공유 화면"/>
           <div class="snapshot__body">
             <div class="snapshot__label">저장한 해석</div>

diff --git a/print/portfolio/index.html b/print/portfolio/index.html
@@ -201,17 +201,17 @@
 
       <article class="project-feature">
         <div class="project-image project-image--contain">
-          <img src="../../assets/images/oracluna-seven-card-reveal.jpg" alt="Oracluna seven-card reading"/>
+          <img src="../../assets/images/oracluna-three-card-reveal.jpg" alt="Oracluna three-card reveal"/>
         </div>
         <div class="project-copy">
           <div class="project-kicker">Mobile RAG Product</div>
           <h3 class="project-title">Oracluna Tarot</h3>
           <p class="project-summary">
-            At oracluna.com, users enter a question, shuffle and cut the deck, select from all 78 cards, receive an interpretation, and save or share the result.
+            At oracluna.com, users choose a concern, shuffle and cut the deck, pick from a 78-card wheel, receive an interpretation, and save or share the result.
           </p>
           <ul class="project-list">
-            <li><strong>Problem:</strong> The first radial deck made edge cards hard to reach and produced unstable drag positions on mobile.</li>
-            <li><strong>Build:</strong> Full 78-card matrix, spread and orientation data, Qdrant retrieval, Ollama/OpenAI provider adapters, browser storage, Canvas posters, and Web Share.</li>
+            <li><strong>Problem:</strong> Mobile users needed to browse all 78 cards without losing the selected cards or their position in the deck.</li>
+            <li><strong>Build:</strong> Draggable 78-card wheel, selection slots, spread and orientation data, Qdrant retrieval, Ollama/OpenAI provider adapters, browser storage, Canvas posters, and Web Share.</li>
             <li><strong>Outcome:</strong> Public service at oracluna.com with question entry, card selection, readings, saving, deletion, and sharing.</li>
           </ul>
         </div>
@@ -225,7 +225,7 @@
             <p class="snapshot__copy">Mood and relationship values are shown inside the game loop for debugging.</p>
           </div>
         </article>
-        <article class="snapshot snapshot--contain">
+        <article class="snapshot snapshot--contain snapshot--bottom">
           <img src="../../assets/images/oracluna-save-share.jpg" alt="Oracluna save and share screen"/>
           <div class="snapshot__body">
             <div class="snapshot__label">Saved reading</div>

diff --git a/ai-systems/index.html b/ai-systems/index.html
@@ -209,12 +209,12 @@
         <article class="card group">
           <div class="card-bar"><span>product</span><span>oracluna</span></div>
           <div class="p-5">
-            <div class="media-frame frame-contain aspect-[4/3] border border-hairline">
-              <img src="../assets/images/oracluna-seven-card-reveal.jpg" alt="Oracluna Tarot 7장 카드 공개 화면"/>
+            <div class="media-frame aspect-[4/3] border border-hairline">
+              <img src="../assets/images/oracluna-three-card-reveal.jpg" alt="Oracluna Tarot 3장 카드 공개 화면"/>
             </div>
             <div class="mt-5 kicker kicker-cyan">mobile rag reading</div>
             <h3 class="mt-3 font-display text-xl font-bold text-text-primary">Oracluna Tarot</h3>
-            <p class="mt-3 text-sm leading-7 text-text-secondary kr-balance">oracluna.com에서 질문을 입력하고 카드를 섞고 자른 뒤, 78장 중 카드를 골라 해석을 저장하거나 공유할 수 있습니다.</p>
+            <p class="mt-3 text-sm leading-7 text-text-secondary kr-balance">oracluna.com에서 고민을 고르고 카드를 섞고 자른 뒤, 78장 카드 휠에서 직접 뽑아 해석을 저장하거나 공유할 수 있습니다.</p>
             <div class="mt-5 flex flex-wrap items-center gap-x-4 gap-y-2 font-mono text-[11px] tracking-wide">
               <a href="./oracluna-tarot/" class="uppercase tracking-widest text-accent-cyan hover:text-accent-amber">케이스 보기 <span aria-hidden="true" class="ml-2">&nearr;</span></a>
               <a href="https://oracluna.com/" target="_blank" rel="noopener noreferrer" class="text-text-secondary hover:text-accent-cyan">oracluna.com <span aria-hidden="true">&nearr;</span></a>

diff --git a/en/ai-systems/index.html b/en/ai-systems/index.html
@@ -209,12 +209,12 @@
         <article class="card group">
           <div class="card-bar"><span>product</span><span>oracluna</span></div>
           <div class="p-5">
-            <div class="media-frame frame-contain aspect-[4/3] border border-hairline">
-              <img src="../../assets/images/oracluna-seven-card-reveal.jpg" alt="Oracluna Tarot seven-card reveal"/>
+            <div class="media-frame aspect-[4/3] border border-hairline">
+              <img src="../../assets/images/oracluna-three-card-reveal.jpg" alt="Oracluna Tarot three-card reveal"/>
             </div>
             <div class="mt-5 kicker kicker-cyan">mobile rag reading</div>
             <h3 class="mt-3 font-display text-xl font-bold text-text-primary">Oracluna Tarot</h3>
-            <p class="mt-3 text-sm leading-7 text-text-secondary">At oracluna.com, users enter a question, shuffle and cut the deck, select from all 78 cards, then save or share the reading.</p>
+            <p class="mt-3 text-sm leading-7 text-text-secondary">At oracluna.com, users choose a concern, shuffle and cut the deck, pick from a 78-card wheel, then save or share the reading.</p>
             <div class="mt-5 flex flex-wrap items-center gap-x-4 gap-y-2 font-mono text-[11px] tracking-wide">
               <a href="./oracluna-tarot/" class="uppercase tracking-widest text-accent-cyan hover:text-accent-amber">read case <span aria-hidden="true" class="ml-2">&nearr;</span></a>
               <a href="https://oracluna.com/" target="_blank" rel="noopener noreferrer" class="text-text-secondary hover:text-accent-cyan">oracluna.com <span aria-hidden="true">&nearr;</span></a>

diff --git a/assets/css/print-docs.css b/assets/css/print-docs.css
@@ -583,6 +583,10 @@ img {
   object-position: top center;
 }
 
+.snapshot--bottom img {
+  object-position: bottom center;
+}
+
 .snapshot__body {
   display: grid;
   gap: 6px;

diff --git a/AGENTS.md b/AGENTS.md
@@ -140,6 +140,11 @@ colors: {
 
 ## Recent Work History
 
+### 2026-08-13: Oracluna Screenshot Refresh
+- `녹화_2026_08_11_14_38_37_734.mp4` 를 구간별로 검수해 고민 선택, 3분할 컷 재결합, 78장 카드 휠, 3장 공개, 카드별 해석, 저장·공유 장면을 새 스크린샷으로 반영.
+- 구형 `oracluna-deck-matrix.jpg`, `oracluna-seven-card-reveal.jpg` 를 `oracluna-card-wheel.jpg`, `oracluna-three-card-reveal.jpg` 로 교체하고 KO/EN 케이스, AI 허브, 인쇄 포트폴리오, KO/EN 이력서 캡션과 설명을 현재 제품 흐름에 맞춤.
+- Oracluna 케이스를 390px / 1280px, 인쇄 포트폴리오와 두 이력서를 1280px에서 검수. 깨진 이미지와 가로 overflow 0.
+
 ### 2026-08-06: Oracluna Tarot Case Study
 - `ai-systems/oracluna-tarot/`, `en/ai-systems/oracluna-tarot/` 신규 생성.
 - 질문 설정 → 3분할 컷 → 78장 매트릭스 → 카드 공개 → RAG 해석 → 저장·공유 흐름을 프로젝트 녹화에서 추출한 6개 프레임으로 구성.
